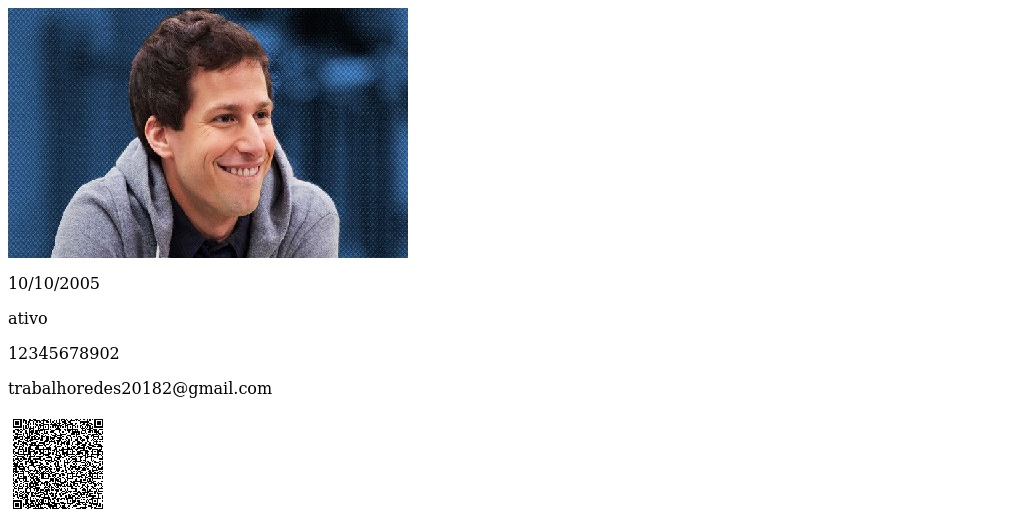
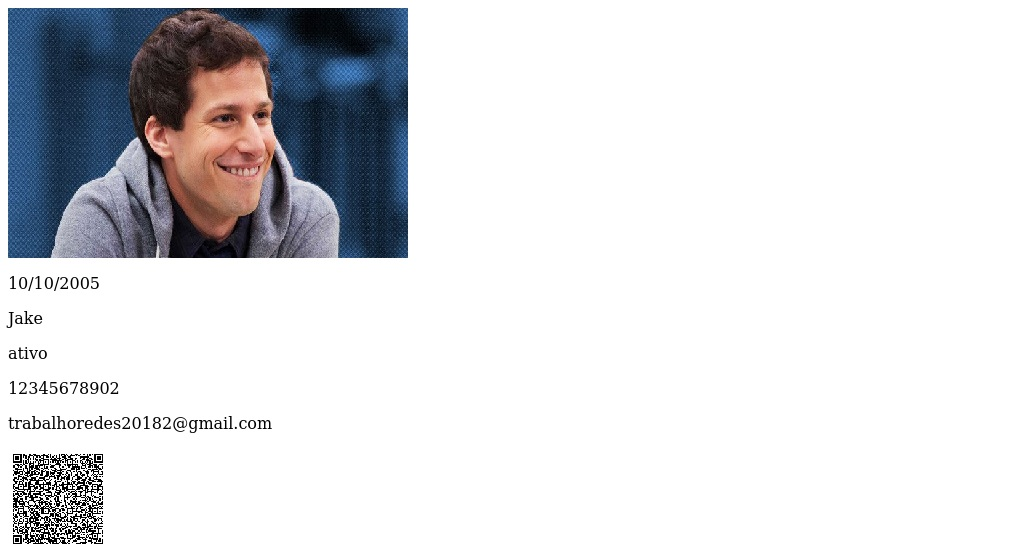
comit

Changed region(s): [[0.0, 0.0, 0.4062, 0.7969], [0.0, 0.7969, 0.125, 0.9808]]

diff --git a/back-end/static/out.html b/back-end/static/out.html
@@ -1,1 +1,1 @@
-<img src="image/jake.jpg" height="250" width="400"><p>10/10/2005</p><p>ativo</p><p>12345678902</p><p>trabalhoredes20182@gmail.com</p><img src="Jake.png" height="100" width="100">
+<img src="image/jake.jpg" height="250" width="400"><p>10/10/2005</p><p>Jake</p><p>ativo</p><p>12345678902</p><p>trabalhoredes20182@gmail.com</p><img src="Jake.png" height="100" width="100">

diff --git a/back-end/server.py b/back-end/server.py
@@ -1,26 +1,33 @@
 import json, qrcode
 from flask import Flask, redirect, url_for, request, jsonify, render_template
 
-import smtplib, imgkit
+import os
+import smtplib
+from email.mime.text import MIMEText
+from email.mime.image import MIMEImage
+from email.mime.multipart import MIMEMultipart
 
-def send_email(user, pwd, recipient, subject, body):
-	FROM = user
-	TO = recipient if isinstance(recipient, list) else [recipient]
-	SUBJECT = subject
-	TEXT = body
-	# Prepare actual message
-	message = """From: %s\nTo: %s\nSubject: %s\n\n%s
-	""" % (FROM, ", ".join(TO), SUBJECT, TEXT)
-	try:
-	    server = smtplib.SMTP("smtp.gmail.com", 587)
-	    server.ehlo()
-	    server.starttls()
-	    server.login(user, pwd)
-	    server.sendmail(FROM, TO, message)
-	    server.close()
-	    print 'successfully sent the mail'
-	except:
-		print "failed to send mail"
+import imgkit
+
+def SendMail(receiver, body, ImgFileName):
+	img_data = open(ImgFileName, 'rb').read()
+	msg = MIMEMultipart()
+	msg['Subject'] = 'Carteirinha'
+	msg['From'] = 'trabalhoredes20182@gmail.com'
+	msg['To'] = receiver
+
+	text = MIMEText(body)
+	msg.attach(text)
+	image = MIMEImage(img_data, name=os.path.basename(ImgFileName))
+	msg.attach(image)
+
+	s = smtplib.SMTP('smtp.gmail.com', 587)
+	s.ehlo()
+	s.starttls()
+	s.ehlo()
+	s.login('trabalhoredes20182@gmail.com', 'redes123')
+	s.sendmail(msg['From'], msg['To'], msg.as_string())
+	s.quit()
 
 
 app = Flask(__name__)
@@ -92,11 +99,9 @@ def carteirinha():
 		for field in user:
 			print field
 			print user[field]
-			html += '<p>'+ user[field] +'</p>' if field not in ('nome','foto','status') else ''
+			html += '<p>'+ user[field] +'</p>' if field not in ('foto','status') else ''
 
 		html += '<img src="'+user["nome"]+'.png" height="100" width="100">'
-
-		send_email('trabalhoredes20182@gmail.com','redes123',user['email'],'Carteirinha','Carteirinha feita!')
 
 		with open('./static/out.html','w') as out:
 			out.write(html)	
@@ -104,6 +109,8 @@ def carteirinha():
 		imgkit.from_file('./static/out.html','./static/out.jpg')
 
 		html = '<img src="static/out.jpg">'
+
+		SendMail(user['email'],'Carteirinha emitida!', 'static/out.jpg')
 
 		return html
 
